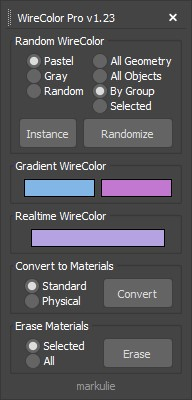
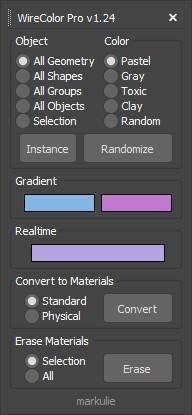
u

diff --git a/README.md b/README.md
@@ -14,11 +14,12 @@ Object color randomization, instance sync, gradients, and material control for 3
 - [Usage](#usage)
 - [Changelog](#changelog)
 - [License](#license)
+- [Download](#download)
 
 
 
 <p align="center">
-  <img width="192" height="400" src="https://raw.githubusercontent.com/markulie/WireColorPro/master/WireColor_Pro_Window.jpg">
+  <img width="192" height="415" src="https://raw.githubusercontent.com/markulie/WireColorPro/master/WireColor_Pro_Window.jpg">
 </p>
 
 ## Introduction
@@ -49,7 +50,7 @@ Object color randomization, instance sync, gradients, and material control for 3
 
 "WireColor Pro" revolutionizes the way 3D designers work with object colors and materials in Autodesk 3ds Max. By providing a comprehensive suite of tools for randomization, palette-based colorization, material conversion, batch material management, and instance color synchronization, this script empowers designers to achieve stunning visual results with greater efficiency and creative freedom. Whether working on architectural visualizations, product renderings, or animation projects, "WireColor Pro" is an indispensable asset that simplifies the process of color and material manipulation while enhancing the quality of the final output.
 
-<a href="https://www.youtube.com/watch?v=j5dhfQ13YUk" target="-blank">Tutorial</a> (Italian) by Marcello Pattarin
+<a href="https://www.youtube.com/watch?v=j5dhfQ13YUk" target="_blank">Tutorial</a> (Italian) by Marcello Pattarin
 
 <p align="center">
   <img width="650" height="180" src="https://github.com/markulie/WireColorPro/blob/master/WireColor_Pro_Gradient.jpg?raw=true">
@@ -72,54 +73,71 @@ Object color randomization, instance sync, gradients, and material control for 3
 ## Changelog
 
 ```md
+Version: 1.24 | August 24, 2023
+- Enhanced the color palette with the inclusion of two additions: "Toxic" and "Clay."
+- Implemented undo and redo capabilities
+- Introduced the ability to modify colors exclusively within shape objects.
+- Bug Fixes
+
 Version: 1.23 | August 10, 2023
 - Refactored Code
 - Enhanced Speed
 - Color Consistency Across Instances
 - Group-Based Color Customization
-- Bug Fixes
-- Rebranded as "WireColor Pro" due to the prior name "ProColor" being somewhat perplexing.
+- Rebranded as "WireColor Pro" due to the prior name "ProColor" being somewhat perplexing
 
 Version: 1.01 | October 21, 2022
 - Added Pastel Colors Palette  
 - Fixed Viewport's Auto Redraw
 - Cleaning Memory before initialization
-- Bug Fixes  
+- Bug Fixes
 
 Version: 0.8 | September 29, 2020
-- ProColor is now Macroscript  
-- Batch Converting Wirecolor to Material  
-- Bug Fixes  
+- ProColor is now Macroscript
+- Batch Converting Wirecolor to Material
+- Bug Fixes
   
 Version: 0.7 | March 27, 2016
 - Added Convert Wirecolor to Material Diffuse/BaseColor
-- Bug Fixes  
+- Bug Fixes
   
 Version: 0.6 | June 21, 2015
 - Improved Remove Materials from object
-- Removed useless gray wirecolor assignment  
+- Removed useless gray wirecolor assignment
   
 Version: 0.5 | April 19, 2015
-- Bug Fixes  
+- Bug Fixes
   
 Version: 0.4 | April 1, 2015
 - Added Remove Materials from object
-- Bug Fixes  
+- Bug Fixes
   
 Version: 0.3 | January 19, 2015
-- Bug Fixes  
+- Bug Fixes
   
 Version: 0.2 | January 2, 2015
-- Bug Fixes  
+- Bug Fixes
   
 Version: 0.1 | December 30, 2014
 - Initial Release
 
 ```
 
+## Thanks
+
+Nintendo
+
+Marcello Pattarin
+
+Sergey Gromoff
+
+
 ## License
 
 This project is licensed under the [MIT License](LICENSE), which means you're free to use, modify, and distribute the scripts. However, please note that the scripts are provided as-is, and contributors are not responsible for any issues that may arise from their usage.
+
+## Download
+<a href="https://raw.githubusercontent.com/markulie/WireColorPro/master/markulie-WireColorProMacro.mcr" download>Download the latest version here</a>
 
 ---
 
